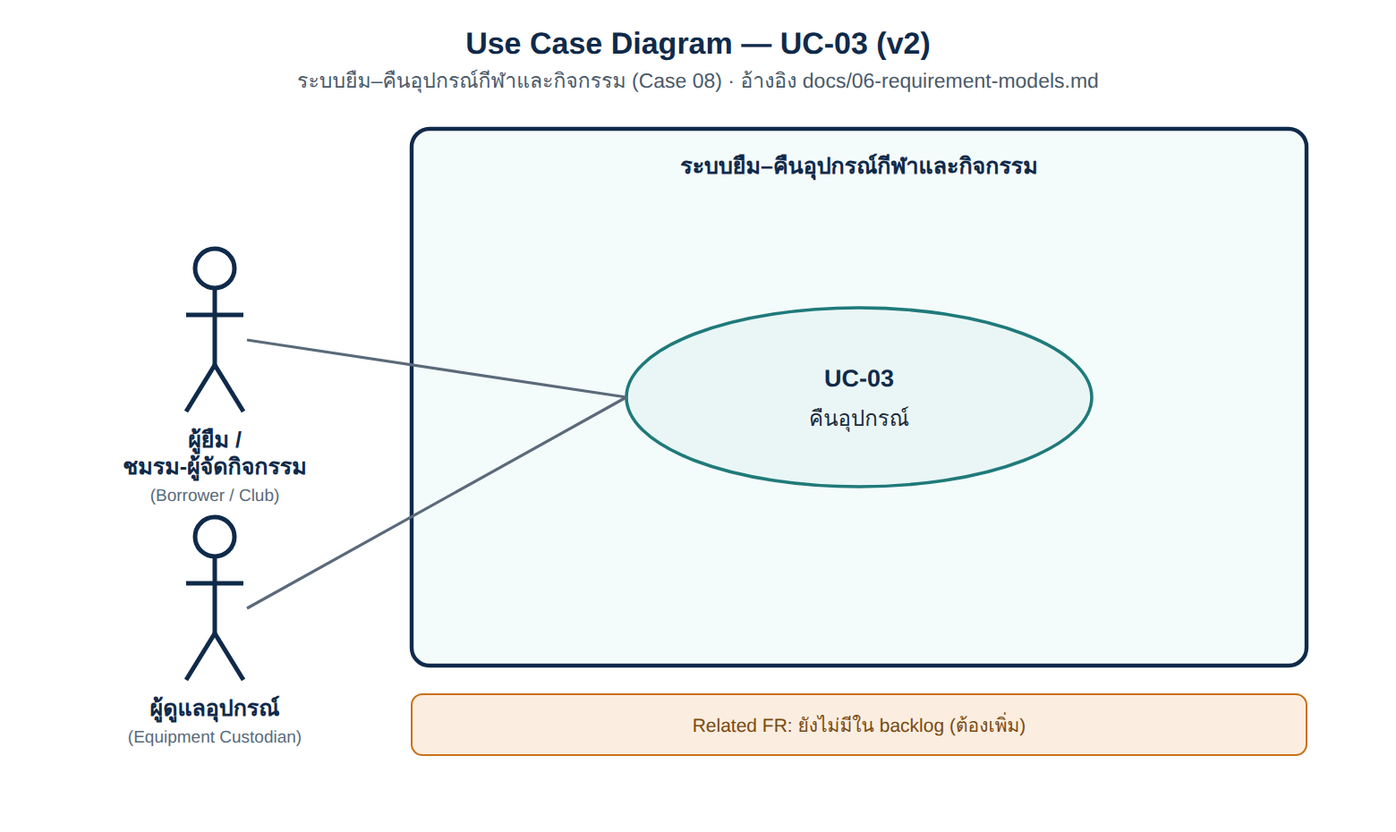
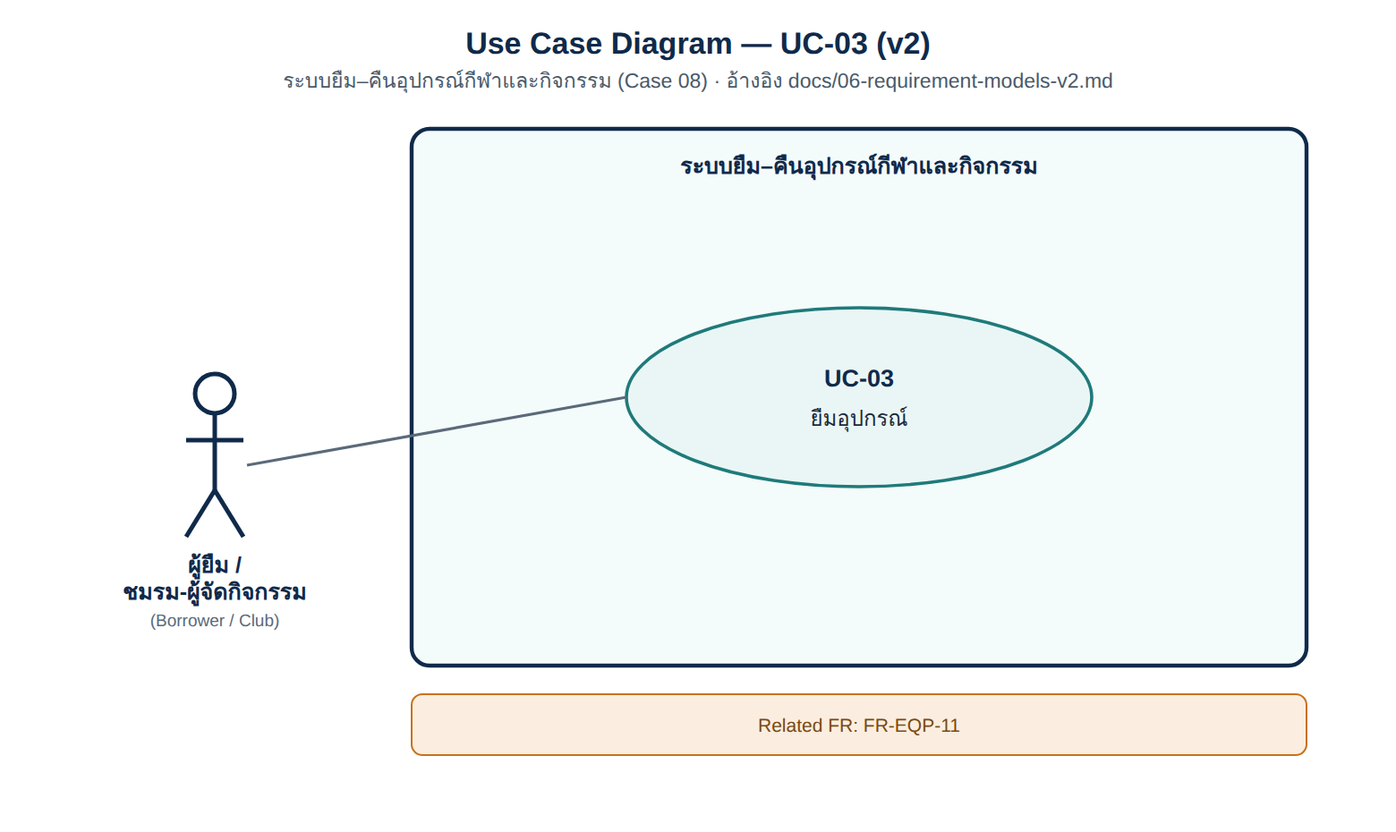
Split UC-01 into add/view equipment use cases, add backlog v0.3 with FR-EQP-09..12

diff --git a/docs/06-requirement-models-v2.md b/docs/06-requirement-models-v2.md
@@ -6,11 +6,11 @@
 
 | **ID** | **Actor** | **Goal** | **Value** | **Priority** | **Linked FR** | **Acceptance Criteria** |
 |---|---|---|---|---|---|---|
-| US-01 | ผู้ดูแลอุปกรณ์ | เพิ่มรายการอุปกรณ์ใหม่เข้าสู่ระบบ | เพื่อให้ข้อมูลอุปกรณ์ที่มีอยู่ครบถ้วนและพร้อมให้ตรวจสอบก่อนยืม | Must | *ยังไม่มีใน backlog (ต้องเพิ่ม)* | `AC-01` |
-| US-02 | ผู้ยืม / ชมรม-ผู้จัดกิจกรรม | ดูรายการอุปกรณ์ทั้งหมดที่มีในระบบ | เพื่อให้ทราบว่ามีอุปกรณ์อะไรบ้างก่อนตัดสินใจยืม | Must | *ยังไม่มีใน backlog (ต้องเพิ่ม)* | `AC-02` |
-| US-03 | ผู้ยืม / ชมรม-ผู้จัดกิจกรรม | ยืมอุปกรณ์ที่ต้องการจากระบบ | เพื่อให้สามารถนำอุปกรณ์ไปใช้ในกิจกรรมของตนเองได้ | Must | `FR-EQP-04, FR-EQP-06, FR-EQP-07` | `AC-03, AC-04` |
-| US-04 | ผู้ยืม / ชมรม-ผู้จัดกิจกรรม | คืนอุปกรณ์ที่ยืมไปเมื่อใช้งานเสร็จ | เพื่อให้อุปกรณ์กลับเข้าสู่ระบบและพร้อมให้ผู้อื่นยืมต่อได้ | Must | `FR-EQP-01, FR-EQP-02, FR-EQP-03, FR-EQP-05` | `AC-05, AC-06` |
-| US-05 | เจ้าหน้าที่/ผู้บริหาร | ดูข้อมูลสรุปการใช้งานอุปกรณ์ | เพื่อใช้ติดตามการใช้งานและวางแผนจัดการอุปกรณ์ | Could | `FR-EQP-08` | `AC-07, AC-08` |
+| US-01 | ผู้ดูแลอุปกรณ์ | เพิ่มรายการอุปกรณ์ใหม่เข้าสู่ระบบ | เพื่อให้ข้อมูลอุปกรณ์ที่มีอยู่ครบถ้วนและพร้อมให้ตรวจสอบก่อนยืม | Must | [`FR-EQP-09`](05-requirement-backlog-v0.3.md#3-requirement-backlog-v03) | `AC-01` |
+| US-02 | ผู้ยืม / ชมรม-ผู้จัดกิจกรรม | ดูรายการอุปกรณ์ทั้งหมดที่มีในระบบ | เพื่อให้ทราบว่ามีอุปกรณ์อะไรบ้างก่อนตัดสินใจยืม | Must | [`FR-EQP-10`](05-requirement-backlog-v0.3.md#3-requirement-backlog-v03) | `AC-02` |
+| US-03 | ผู้ยืม / ชมรม-ผู้จัดกิจกรรม | ยืมอุปกรณ์ที่ต้องการจากระบบ | เพื่อให้สามารถนำอุปกรณ์ไปใช้ในกิจกรรมของตนเองได้ | Must | [`FR-EQP-11`](05-requirement-backlog-v0.3.md#3-requirement-backlog-v03) | `AC-03, AC-04` |
+| US-04 | ผู้ยืม / ชมรม-ผู้จัดกิจกรรม | คืนอุปกรณ์ที่ยืมไปเมื่อใช้งานเสร็จ | เพื่อให้อุปกรณ์กลับเข้าสู่ระบบและพร้อมให้ผู้อื่นยืมต่อได้ | Must | [`FR-EQP-12`](05-requirement-backlog-v0.3.md#3-requirement-backlog-v03) | `AC-05, AC-06` |
+| US-05 | เจ้าหน้าที่/ผู้บริหาร | ดูข้อมูลสรุปการใช้งานอุปกรณ์ | เพื่อใช้ติดตามการใช้งานและวางแผนจัดการอุปกรณ์ | Could | [`FR-EQP-08`](05-requirement-backlog-v0.3.md#3-requirement-backlog-v03) | `AC-07, AC-08` |
 
 ## 2. Acceptance Criteria
 
@@ -69,26 +69,39 @@
 
 | **ID** | **Use Case** | **Primary Actor** | **Goal** | **Related FR** | **Diagram** |
 |---|---|---|---|---|---|
-| UC-01 | เพิ่ม/ดูรายการอุปกรณ์ | ผู้ดูแลอุปกรณ์ (เพิ่ม) / ผู้ยืม, ชมรม-ผู้จัดกิจกรรม (ดู) | เพิ่มอุปกรณ์เข้าระบบและให้ทุกคนดูรายการอุปกรณ์ที่มี | *ยังไม่มีใน backlog* | [`../diagrams/use-case/UC-01-v2.png`](../diagrams/use-case/UC-01-v2.png) |
-| UC-02 | ยืมอุปกรณ์ | ผู้ยืม, ชมรม/ผู้จัดกิจกรรม | ยืมอุปกรณ์ที่ต้องการไปใช้งาน | `FR-EQP-04, FR-EQP-06, FR-EQP-07` | [`../diagrams/use-case/UC-02-v2.png`](../diagrams/use-case/UC-02-v2.png) |
-| UC-03 | คืนอุปกรณ์ | ผู้ยืม, ชมรม/ผู้จัดกิจกรรม, ผู้ดูแลอุปกรณ์ | คืนอุปกรณ์ที่ยืมไปเมื่อใช้งานเสร็จ | `FR-EQP-01, FR-EQP-02, FR-EQP-03, FR-EQP-05` | [`../diagrams/use-case/UC-03-v2.png`](../diagrams/use-case/UC-03-v2.png) |
-| UC-04 | ดูข้อมูลสรุปการใช้งานอุปกรณ์ | เจ้าหน้าที่/ผู้บริหาร | ดูข้อมูลสรุปว่าอุปกรณ์แต่ละชิ้นถูกใช้งานอย่างไร | `FR-EQP-08` | [`../diagrams/use-case/UC-04-v2.png`](../diagrams/use-case/UC-04-v2.png) |
+| UC-01 | เพิ่มรายการอุปกรณ์ | ผู้ดูแลอุปกรณ์ | เพิ่มอุปกรณ์ใหม่เข้าสู่ระบบ | [`FR-EQP-09`](05-requirement-backlog-v0.3.md#3-requirement-backlog-v03) | [`../diagrams/use-case/UC-01-v2.png`](../diagrams/use-case/UC-01-v2.png) |
+| UC-02 | ดูรายการอุปกรณ์ | ผู้ยืม, ชมรม-ผู้จัดกิจกรรม, ผู้ดูแลอุปกรณ์ | ดูรายการอุปกรณ์ทั้งหมดพร้อมสถานะ | [`FR-EQP-10`](05-requirement-backlog-v0.3.md#3-requirement-backlog-v03) | [`../diagrams/use-case/UC-02-v2.png`](../diagrams/use-case/UC-02-v2.png) |
+| UC-03 | ยืมอุปกรณ์ | ผู้ยืม, ชมรม/ผู้จัดกิจกรรม | ยืมอุปกรณ์ที่ต้องการไปใช้งาน | [`FR-EQP-11`](05-requirement-backlog-v0.3.md#3-requirement-backlog-v03) | [`../diagrams/use-case/UC-03-v2.png`](../diagrams/use-case/UC-03-v2.png) |
+| UC-04 | คืนอุปกรณ์ | ผู้ยืม, ชมรม/ผู้จัดกิจกรรม, ผู้ดูแลอุปกรณ์ | คืนอุปกรณ์ที่ยืมไปเมื่อใช้งานเสร็จ | [`FR-EQP-12`](05-requirement-backlog-v0.3.md#3-requirement-backlog-v03) | [`../diagrams/use-case/UC-04-v2.png`](../diagrams/use-case/UC-04-v2.png) |
+| UC-05 | ดูข้อมูลสรุปการใช้งานอุปกรณ์ | เจ้าหน้าที่/ผู้บริหาร | ดูข้อมูลสรุปว่าอุปกรณ์แต่ละชิ้นถูกใช้งานอย่างไร | [`FR-EQP-08`](05-requirement-backlog-v0.3.md#3-requirement-backlog-v03) | [`../diagrams/use-case/UC-05-v2.png`](../diagrams/use-case/UC-05-v2.png) |
 
 ## 4. Use Case Specification
 
-### UC-01 — เพิ่ม/ดูรายการอุปกรณ์
+### UC-01 — เพิ่มรายการอุปกรณ์
 
 | **Field** | **Detail** |
 |---|---|
-| Primary Actor | ผู้ดูแลอุปกรณ์ (เพิ่มรายการ) / ผู้ยืม, ชมรม-ผู้จัดกิจกรรม (ดูรายการ) |
-| Trigger | ผู้ดูแลอุปกรณ์ต้องการเพิ่มอุปกรณ์ใหม่ หรือผู้ใช้งานต้องการดูรายการอุปกรณ์ที่มี |
-| Preconditions | ผู้ใช้งานเข้าสู่ระบบแล้ว (สำหรับเพิ่มรายการต้องมีสิทธิ์ผู้ดูแลอุปกรณ์) |
-| Main Success Scenario | 1. ผู้ดูแลอุปกรณ์เลือกเมนู "เพิ่มอุปกรณ์" 2. กรอกข้อมูลอุปกรณ์ (ชื่อ, หมวดหมู่, จำนวน) 3. กดบันทึก 4. ระบบบันทึกอุปกรณ์ใหม่ 5. ผู้ใช้งาน (ทุกบทบาท) เปิดหน้ารายการอุปกรณ์ 6. ระบบแสดงรายการอุปกรณ์ทั้งหมดพร้อมสถานะ |
+| Primary Actor | ผู้ดูแลอุปกรณ์ |
+| Trigger | ผู้ดูแลอุปกรณ์ต้องการเพิ่มอุปกรณ์ใหม่เข้าสู่ระบบ |
+| Preconditions | ผู้ดูแลอุปกรณ์เข้าสู่ระบบด้วยสิทธิ์ผู้ดูแล |
+| Main Success Scenario | 1. ผู้ดูแลอุปกรณ์เลือกเมนู "เพิ่มอุปกรณ์" 2. กรอกข้อมูลอุปกรณ์ (ชื่อ, หมวดหมู่, จำนวน) 3. กดบันทึก 4. ระบบบันทึกอุปกรณ์ใหม่เข้าสู่ฐานข้อมูล |
 | Alternate / Exception Flows | หากกรอกข้อมูลไม่ครบ ระบบแจ้งเตือนและไม่บันทึกจนกว่าจะกรอกครบ |
-| Postconditions | ระบบมีรายการอุปกรณ์ที่ครบถ้วนและผู้ใช้งานสามารถดูสถานะอุปกรณ์ได้ |
-| Related Requirements | *ยังไม่มีใน backlog (ต้องเพิ่ม)* |
+| Postconditions | ระบบมีรายการอุปกรณ์ใหม่พร้อมให้ดูและยืมได้ |
+| Related Requirements | [`FR-EQP-09`](05-requirement-backlog-v0.3.md#3-requirement-backlog-v03) |
 
-### UC-02 — ยืมอุปกรณ์
+### UC-02 — ดูรายการอุปกรณ์
+
+| **Field** | **Detail** |
+|---|---|
+| Primary Actor | ผู้ยืม, ชมรม-ผู้จัดกิจกรรม, ผู้ดูแลอุปกรณ์ |
+| Trigger | ผู้ใช้งานต้องการดูรายการอุปกรณ์ที่มีอยู่ในระบบ |
+| Preconditions | ผู้ใช้งานเข้าสู่ระบบแล้ว |
+| Main Success Scenario | 1. ผู้ใช้งานเปิดหน้ารายการอุปกรณ์ 2. ระบบดึงข้อมูลอุปกรณ์ทั้งหมด 3. ระบบแสดงรายการอุปกรณ์ทั้งหมดพร้อมสถานะปัจจุบัน (ว่าง/ถูกยืม) |
+| Alternate / Exception Flows | หากยังไม่มีอุปกรณ์ในระบบ ระบบแสดงข้อความว่ายังไม่มีรายการอุปกรณ์ |
+| Postconditions | ผู้ใช้งานเห็นรายการอุปกรณ์และสถานะล่าสุด |
+| Related Requirements | [`FR-EQP-10`](05-requirement-backlog-v0.3.md#3-requirement-backlog-v03) |
+
+### UC-03 — ยืมอุปกรณ์
 
 | **Field** | **Detail** |
 |---|---|
@@ -98,9 +111,9 @@
 | Main Success Scenario | 1. ผู้ยืมเปิดรายการอุปกรณ์ 2. เลือกอุปกรณ์ที่ต้องการยืม 3. กดยืนยันการยืม 4. ระบบตรวจสอบสถานะอุปกรณ์ 5. ระบบบันทึกรายการยืม 6. ระบบเปลี่ยนสถานะอุปกรณ์เป็น "ถูกยืม" |
 | Alternate / Exception Flows | หากอุปกรณ์ไม่ว่าง ระบบไม่อนุญาตให้ยืมและแจ้งเตือนผู้ยืม |
 | Postconditions | อุปกรณ์ถูกส่งมอบให้ผู้ยืม และสถานะอุปกรณ์เปลี่ยนเป็น "ถูกยืม" |
-| Related Requirements | *ยังไม่มีใน backlog (ต้องเพิ่ม)* |
+| Related Requirements | [`FR-EQP-11`](05-requirement-backlog-v0.3.md#3-requirement-backlog-v03) |
 
-### UC-03 — คืนอุปกรณ์
+### UC-04 — คืนอุปกรณ์
 
 | **Field** | **Detail** |
 |---|---|
@@ -111,9 +124,9 @@
 | Main Success Scenario | 1. ผู้ยืมนำอุปกรณ์มาคืน 2. ผู้ดูแลอุปกรณ์ตรวจสอบอุปกรณ์ 3. ผู้ดูแลอุปกรณ์กดยืนยันรับคืนในระบบ 4. ระบบบันทึกวันเวลาที่คืน 5. ระบบเปลี่ยนสถานะอุปกรณ์เป็น "ว่าง" |
 | Alternate / Exception Flows | หากไม่พบรายการยืมที่ตรงกัน ระบบแจ้งเตือนว่าไม่พบข้อมูลการยืม |
 | Postconditions | อุปกรณ์กลับสู่สถานะ "ว่าง" และพร้อมให้ผู้อื่นยืมต่อ |
-| Related Requirements | *ยังไม่มีใน backlog (ต้องเพิ่ม)* |
+| Related Requirements | [`FR-EQP-12`](05-requirement-backlog-v0.3.md#3-requirement-backlog-v03) |
 
-### UC-04 — ดูข้อมูลสรุปการใช้งานอุปกรณ์
+### UC-05 — ดูข้อมูลสรุปการใช้งานอุปกรณ์
 
 | **Field** | **Detail** |
 |---|---|
@@ -123,7 +136,7 @@
 | Main Success Scenario | 1. เจ้าหน้าที่หรือผู้บริหารเปิดหน้าข้อมูลสรุป 2. ระบบรวบรวมข้อมูลการยืม-คืนของอุปกรณ์แต่ละชิ้น 3. ระบบคำนวณจำนวนครั้งที่ถูกยืม 4. ระบบแสดงข้อมูลสรุปพร้อมสถานะปัจจุบันของอุปกรณ์แต่ละชิ้น |
 | Alternate / Exception Flows | หากไม่มีข้อมูลของอุปกรณ์ชิ้นใด ระบบแสดงว่ายังไม่มีข้อมูลการใช้งาน |
 | Postconditions | เจ้าหน้าที่หรือผู้บริหารได้ข้อมูลสรุปเพื่อใช้ติดตาม/วางแผน |
-| Related Requirements | FR-EQP-08 |
+| Related Requirements | [`FR-EQP-08`](05-requirement-backlog-v0.3.md#3-requirement-backlog-v03) |
 
 ## 5. Requirement Models / Diagrams
 
@@ -139,28 +152,28 @@
 
 ### 5.2 Activity Diagrams (Workflow Modeling)
 
-#### Workflow: กระบวนการเพิ่มอุปกรณ์ ยืม และคืน (Equipment Add, Borrow & Return Flow)
+#### Workflow: กระบวนการเพิ่มอุปกรณ์ ดู ยืม และคืน (Equipment Add, View, Borrow & Return Flow)
 
 ```mermaid
 stateDiagram-v2
     [*] --> AddEquipment: ผู้ดูแลอุปกรณ์เพิ่มรายการอุปกรณ์ใหม่ (UC-01)
-    AddEquipment --> AvailableList: อุปกรณ์แสดงในรายการที่ดูได้ (UC-01)
+    AddEquipment --> AvailableList: อุปกรณ์แสดงในรายการที่ดูได้ (UC-02)
 
     AvailableList --> SelectItem: ผู้ยืม/ชมรม-ผู้จัดกิจกรรมเลือกอุปกรณ์ที่ต้องการ
 
     state IsAvailable <<choice>>
     SelectItem --> IsAvailable
     IsAvailable --> AvailableList: อุปกรณ์ไม่ว่าง (เลือกใหม่)
-    IsAvailable --> Borrowed: อุปกรณ์ว่าง ยืนยันการยืม (UC-02)
+    IsAvailable --> Borrowed: อุปกรณ์ว่าง ยืนยันการยืม (UC-03)
 
     Borrowed --> InUse: อุปกรณ์อยู่ระหว่างการใช้งาน
 
     InUse --> ReturnRequested: ผู้ยืมนำอุปกรณ์มาคืน
-    ReturnRequested --> ConfirmedReturn: ผู้ดูแลอุปกรณ์ตรวจสอบและยืนยันรับคืน (UC-03)
+    ReturnRequested --> ConfirmedReturn: ผู้ดูแลอุปกรณ์ตรวจสอบและยืนยันรับคืน (UC-04)
     ConfirmedReturn --> AvailableList: สถานะอุปกรณ์กลับเป็น "ว่าง"
 
     ConfirmedReturn --> UpdateUsageData: บันทึกข้อมูลการยืม-คืนของอุปกรณ์
-    UpdateUsageData --> [*]: พร้อมใช้แสดงในข้อมูลสรุปการใช้งาน (UC-04)
+    UpdateUsageData --> [*]: พร้อมใช้แสดงในข้อมูลสรุปการใช้งาน (UC-05)
 ```
 
 *ลิงก์ไฟล์ไดอะแกรมและคำอธิบาย:* [Activity Diagrams Directory](../diagrams/activity/README.md)
@@ -179,4 +192,5 @@ stateDiagram-v2
 
 บันทึกสิ่งที่ไม่ได้เลือกหรือเลื่อนออกจาก scope พร้อมเหตุผล
 
-- ตัดขอบเขตเดิม (การส่งคำขอยืมอุปกรณ์ประเภทพิเศษที่ต้องขออนุมัติ, การเรียกคืนก่อนกำหนด, การจองอุปกรณ์ล่วงหน้าแบบป้องกันชนเวลา, การดูหลักฐานสภาพอุปกรณ์แยกต่างหาก) ออกจากรุ่นนี้ เพื่อโฟกัสเฉพาะ flow หลัก: เพิ่ม/ดูอุปกรณ์ → ยืม → คืน → ดูข้อมูลสรุป
+- ตัดขอบเขตเดิม (การส่งคำขอยืมอุปกรณ์ประเภทพิเศษที่ต้องขออนุมัติ, การเรียกคืนก่อนกำหนด, การจองอุปกรณ์ล่วงหน้าแบบป้องกันชนเวลา, การดูหลักฐานสภาพอุปกรณ์แยกต่างหาก) ออกจากรุ่นนี้ เพื่อโฟกัสเฉพาะ flow หลัก: เพิ่ม → ดู → ยืม → คืน → ดูข้อมูลสรุป
+- แยก use case "เพิ่มอุปกรณ์" (UC-01) และ "ดูรายการอุปกรณ์" (UC-02) ออกจากกัน เพราะเป็นบทบาทและเวลาที่เกิดต่างกัน (ผู้ดูแลอุปกรณ์เป็นคนเพิ่ม แต่ทุกบทบาทดูได้) ทำให้ traceability ไปยัง FR/actor ชัดเจนกว่าการรวมเป็น use case เดียว

diff --git a/docs/05-requirement-backlog-v0.3.md b/docs/05-requirement-backlog-v0.3.md
@@ -1,0 +1,78 @@
+# 05 — Requirement Backlog v0.3: ระบบยืม–คืนอุปกรณ์กีฬาและกิจกรรม (Case 08)
+
+> **Case:** ระบบยืม–คืนอุปกรณ์กีฬาและกิจกรรม
+> **Source:** v0.2 (`05-requirement-backlog-v0.2.md`) + ขอบเขต Use Case แบบง่ายใน `06-requirement-models-v2.md`
+> **Status:** v0.3 — เพิ่ม FR รองรับ UC-01..04 (เพิ่ม/ดูอุปกรณ์, ยืม, คืน, ดูข้อมูลสรุป)
+> **Goal:** เพิ่ม FR ที่ขาดสำหรับขอบเขตใหม่แบบง่าย โดยไม่ลบ FR เดิม (เก็บไว้เพื่อประวัติ)
+
+## 1. Project Metadata
+
+| Field | Value |
+|---|---|
+| Course / Week | ENGSE206 / Week06 |
+| Team | Team 08 |
+| Case | Case 08 — ระบบยืม–คืนอุปกรณ์กีฬาและกิจกรรม |
+| Source | `05-requirement-backlog-v0.2.md`, `06-requirement-models-v2.md` |
+| Backlog version | `v0.3` |
+
+## 2. Prioritization Method
+
+ใช้ MoSCoW โดยพิจารณา Value, Risk, Urgency และ Dependency ตามเดิม
+
+## 3. Requirement Backlog v0.3
+
+| Req ID | Source RC | Evidence / Need Trace | Requirement Statement | Type | Priority | Rationale | Status | Open Question | Week06 Use |
+|---|---|---|---|---|---|---|---|---|---|
+| FR-EQP-01 | RC-01 | E-01 → Need N-01 | ระบบต้องให้ผู้ดูแลอุปกรณ์บันทึกประวัติการยืม–คืนของอุปกรณ์แต่ละชิ้นแบบดิจิทัล และค้นหาประวัติย้อนหลังของอุปกรณ์แต่ละชิ้นได้ | Functional | Must | เป็น core workflow และแทนที่สมุดบันทึกกระดาษโดยตรง | Needs Follow-up | ยืนยันระยะเวลาย้อนหลังที่ต้องค้นได้ และค้นตามผู้ยืมด้วยหรือไม่ | User Story + Use Case |
+| FR-EQP-02 | RC-02 | E-02, E-05 → Need N-02 | ระบบต้องให้ผู้ดูแลอุปกรณ์บันทึกสภาพอุปกรณ์พร้อมภาพถ่าย ณ ตอนส่งมอบและตอนรับคืน | Functional | Must | หลักฐานจาก stakeholder 2 ฝ่ายสนับสนุนการแก้ข้อพิพาทความชำรุด | Needs Follow-up | ใครเป็นผู้ถ่ายภาพ และหลักฐานเก็บที่ใด/นานเท่าใด | Use Case + Acceptance Criteria |
+| FR-EQP-03 | RC-02 follow-up | E-02, E-05 → Need N-02 | ระบบต้องให้ผู้ยืมที่เกี่ยวข้องและผู้ดูแลอุปกรณ์ดูภาพถ่ายและบันทึกสภาพของรายการยืมที่เกี่ยวข้องได้ | Functional | Must | แยก access/use concern ออกจาก FR-EQP-02 เพื่อให้ atomic | Needs Follow-up | ยืนยันบทบาทที่มีสิทธิ์ดูหลักฐานเพิ่มเติม | Use Case + Acceptance Criteria |
+| FR-EQP-04 | RC-03 | E-03 → Need N-03; Negotiation N-02 (Option B) | ระบบต้องส่งคำขออนุมัติให้ผู้มีอำนาจเมื่อคำขอเกี่ยวข้องกับอุปกรณ์ประเภทพิเศษ/ราคาสูง และต้องบันทึกผลการอนุมัติ | Functional / Authorization | Should | มีคุณค่าด้านการควบคุมความเสี่ยง แต่เกณฑ์อุปกรณ์พิเศษยังไม่ยืนยัน | Needs Follow-up | เกณฑ์ราคา/รายการ และผู้มีอำนาจคือใคร | Use Case Extension |
+| FR-EQP-05 | RC-04 | E-04 → Need N-04; Negotiation N-01 (Provisional) | ระบบต้องรองรับการเรียกคืนอุปกรณ์ก่อนกำหนดโดยผู้ดูแลอุปกรณ์ และบันทึกเหตุผลการเรียกคืน | Functional / Business Rule | Should | ทิศทาง negotiation ชัดระดับหนึ่ง แต่เกณฑ์เร่งด่วนยังไม่ครบ | Needs Follow-up | เกณฑ์เร่งด่วนและระยะเวลาแจ้งล่วงหน้า | Alternate Flow + State Rule |
+| FR-EQP-06 | RC-05 | E-06, E-07 → Need N-05 | ระบบต้องแสดงสถานะว่าง/ถูกจองของอุปกรณ์ตามช่วงเวลาที่ผู้ใช้เลือกภายใน 3 วินาทีหลังเลือกช่วงเวลา | Functional | Must | แก้ pain point การมองสถานะอุปกรณ์และทำให้ตรวจรับได้ | Ready for Week06 | ยืนยันว่าช่วงเวลาจองล่วงหน้า 5–7 วันใช้กับทุกประเภทชมรมหรือไม่ | User Story + Use Case |
+| FR-EQP-07 | RC-05 | E-06, E-07 → Need N-05 | ระบบต้องป้องกันการสร้างรายการจองอุปกรณ์ชิ้นเดียวกันที่ช่วงเวลาทับซ้อนกับรายการจองที่ยืนยันแล้ว | Functional / Integrity | Must | แยกจากการแสดงสถานะให้เป็น atomic requirement และตรงกับ pain point จองซ้ำ | Ready for Week06 | ยืนยันกติกากรณีคำขอรออนุมัติทับซ้อนกัน | Use Case + Acceptance Criteria |
+| FR-EQP-08 | RC-06 (เฉพาะส่วนสรุปการใช้งาน/สถานะ) | E-08 → Need N-06; Negotiation N-03 (Unresolved) | ระบบต้องมีรายงาน/แดชบอร์ดให้เจ้าหน้าที่ดูจำนวนครั้งที่อุปกรณ์แต่ละชิ้นถูกยืม ประวัติความชำรุด สถานะ/ผู้ถือครองปัจจุบัน และกำหนดคืน | Functional / Reporting | Could | เป็น need ใหม่จากเจ้าหน้าที่ แต่ยังต้องตรวจผลกระทบต่อ Scope Statement | Needs Follow-up | ความถี่รายงานและผลกระทบต่อ scope เดิม | Follow-up only |
+| NFR-EQP-01 | Scope Statement (Out of Scope: บัญชี/ค่าปรับ, ข้อมูลส่วนบุคคล) | Week 2 Scope Statement + Ethics | ระบบต้องเก็บข้อมูลผู้ยืมเฉพาะข้อมูลที่จำเป็นต่อการยืม–คืน และต้องไม่เชื่อมโยง/ประมวลผลร่วมกับระบบบัญชีหรือค่าปรับ | NFR / Policy-derived Constraint | Must | เป็น policy-derived constraint จาก Scope/ethics ไม่ได้เกิดจาก E-ID โดยตรง | Ready for Week06 | — | Quality Scenario + Constraint |
+| NFR-EQP-02 | RC-02 follow-up | E-02, E-05 + Ethics | ระบบต้องจำกัดสิทธิ์การเข้าถึงภาพถ่ายและบันทึกสภาพอุปกรณ์เฉพาะผู้ดูแลอุปกรณ์และผู้ยืมที่เกี่ยวข้องกับรายการนั้น | NFR / Access Control | Should | รองรับความน่าเชื่อถือของหลักฐานและแยกจาก functional record | Needs Follow-up | ยืนยันบทบาทและขอบเขตสิทธิ์เพิ่มเติม | Quality Scenario |
+| NFR-EQP-03 | Problem Brief §9 | Week 1 — Non-functional Expectations | ผู้ใช้ใหม่ต้องสามารถทำรายการยืมอุปกรณ์สำเร็จภายใน 5 คลิก โดยไม่ต้องได้รับการฝึกอบรมจากผู้ดูแล และหน้าจอหลักต้องรองรับการแสดงผลบนโทรศัพท์มือถือที่ความกว้าง 375 px | NFR | Should | แทนคำว่า "ใช้งานง่าย" ด้วยเกณฑ์ตรวจรับได้ และคง mobile requirement จาก Week 1 | Needs Follow-up | ยืนยันว่า 5 คลิกและ 375 px เป็นเกณฑ์ที่ทีม/ผู้สอนยอมรับหรือควรปรับ | Quality Scenario |
+| ISSUE-EQP-01 | RC-06 (เฉพาะส่วนคำแนะนำจัดซื้อ/งบประมาณ) | E-08 → Need N-06 | คำแนะนำเรื่องการซ่อมบำรุง/จัดซื้อ และผู้อนุมัติงบประมาณ | Issue | Won't yet | อยู่นอก scope เดิมและยังไม่มี scope owner ยืนยัน | Hold | ผู้สอน/scope owner ยืนยันผลกระทบต่อ scope หรือไม่ | Follow-up only |
+| FR-EQP-09 | RC-NEW-01 (v2 scope) | มาจาก `06-requirement-models-v2.md` UC-01 | ระบบต้องให้ผู้ดูแลอุปกรณ์เพิ่มรายการอุปกรณ์ใหม่เข้าสู่ระบบ โดยระบุชื่อ หมวดหมู่ และจำนวน | Functional | Must | จำเป็นเพื่อให้ระบบมีข้อมูลอุปกรณ์ก่อนจะยืม–คืนได้ | Ready for Week06 | ยืนยัน validation ฟิลด์บังคับ | User Story + Use Case |
+| FR-EQP-10 | RC-NEW-01 (v2 scope) | มาจาก `06-requirement-models-v2.md` UC-01 | ระบบต้องแสดงรายการอุปกรณ์ทั้งหมดพร้อมสถานะปัจจุบัน (ว่าง/ถูกยืม) ให้ผู้ยืมและชมรม/ผู้จัดกิจกรรมดูได้ | Functional | Must | จำเป็นให้ผู้ใช้งานเห็นอุปกรณ์ก่อนตัดสินใจยืม | Ready for Week06 | — | User Story + Use Case |
+| FR-EQP-11 | RC-NEW-02 (v2 scope) | มาจาก `06-requirement-models-v2.md` UC-02 | ระบบต้องให้ผู้ยืมหรือชมรม/ผู้จัดกิจกรรมยืมอุปกรณ์ที่มีสถานะว่าง และเปลี่ยนสถานะอุปกรณ์เป็น "ถูกยืม" ทันทีเมื่อยืนยัน | Functional | Must | เป็น core workflow ของขอบเขตใหม่ | Ready for Week06 | ยืนยันจำนวนชิ้น/ระยะเวลายืมสูงสุดต่อครั้ง | User Story + Use Case + Acceptance Criteria |
+| FR-EQP-12 | RC-NEW-03 (v2 scope) | มาจาก `06-requirement-models-v2.md` UC-03 | ระบบต้องให้ผู้ดูแลอุปกรณ์ยืนยันรับคืนอุปกรณ์ และเปลี่ยนสถานะอุปกรณ์กลับเป็น "ว่าง" พร้อมบันทึกวันเวลาที่คืน | Functional | Must | เป็น core workflow ของขอบเขตใหม่ | Ready for Week06 | ยืนยันว่าต้องตรวจสภาพอุปกรณ์ตอนคืนหรือไม่ (นอก scope v2 ปัจจุบัน) | User Story + Use Case + Acceptance Criteria |
+
+## 4. Priority Summary
+
+| Priority | Count | Requirement IDs |
+|---|---:|---|
+| Must | 10 | FR-EQP-01, FR-EQP-02, FR-EQP-03, FR-EQP-06, FR-EQP-07, NFR-EQP-01, FR-EQP-09, FR-EQP-10, FR-EQP-11, FR-EQP-12 |
+| Should | 4 | FR-EQP-04, FR-EQP-05, NFR-EQP-02, NFR-EQP-03 |
+| Could | 1 | FR-EQP-08 |
+| Won't yet | 1 | ISSUE-EQP-01 |
+
+## 5. Ready / Follow-up / Hold
+
+| Status | Requirement IDs | สิ่งที่ต้องทำต่อ |
+|---|---|---|
+| Ready for Week06 | FR-EQP-06, FR-EQP-07, NFR-EQP-01, FR-EQP-09, FR-EQP-10, FR-EQP-11, FR-EQP-12 | ทำ User Story / Use Case / Quality Scenario ได้ |
+| Needs Follow-up | FR-EQP-01, FR-EQP-02, FR-EQP-03, FR-EQP-04, FR-EQP-05, FR-EQP-08, NFR-EQP-02, NFR-EQP-03 | ยืนยัน open questions ก่อนล็อก acceptance criteria/model แบบเต็ม |
+| Hold | ISSUE-EQP-01 | รอ scope owner ยืนยัน |
+
+## 6. Review Checklist
+
+- [x] ทุก requirement มี Source RC หรือ Evidence/Policy source
+- [x] ทุก requirement มี Evidence / Need Trace หรือระบุว่าเป็น policy-derived constraint
+- [x] Requirement ที่รวมหลายเรื่องถูกแยกให้เป็น Atomic
+- [x] Requirement ที่ใช้คำกำกวมถูกปรับให้มีตัวเลข/เงื่อนไขตรวจรับ
+- [x] Priority มี rationale จาก value/risk/urgency/dependency
+- [x] Unknown หรือ scope issue ไม่ถูกยกระดับเป็น requirement โดยไม่มีหลักฐาน
+- [x] มี Week06 Use สำหรับรายการที่พร้อมทำ model
+
+## 7. Week06 Handoff
+
+| Week06 artefact | Input ที่เหมาะสม |
+|---|---|
+| User Story | FR-EQP-01, FR-EQP-06, FR-EQP-07, FR-EQP-09, FR-EQP-10, FR-EQP-11, FR-EQP-12 |
+| Use Case | FR-EQP-09/FR-EQP-10 เป็น main flow ของ UC-01; FR-EQP-11 เป็น main flow ของ UC-02; FR-EQP-12 เป็น main flow ของ UC-03; FR-EQP-08 เป็น main flow ของ UC-04 |
+| Acceptance Criteria | FR-EQP-02, FR-EQP-03 หลังยืนยันรายละเอียดหลักฐาน/สิทธิ์ |
+| Quality Scenario | NFR-EQP-01, NFR-EQP-03 |
+| Extension / Alternate Flow | FR-EQP-04, FR-EQP-05 หลังยืนยันเกณฑ์ (ไม่ได้ใช้ใน scope v2 ปัจจุบัน) |

diff --git a/diagrams/use-case/README.md b/diagrams/use-case/README.md
@@ -13,18 +13,19 @@
 
 ![Use Case Diagram — ระบบยืม–คืนอุปกรณ์กีฬาและกิจกรรม](use-case-overview-v2.png)
 
-Source: [`use-case-overview-v2.svg`](use-case-overview-v2.svg) · เชื่อมโยงกับ [docs/06-requirement-models.md](../../docs/06-requirement-models.md)
+Source: [`use-case-overview-v2.svg`](use-case-overview-v2.svg) · เชื่อมโยงกับ [docs/06-requirement-models-v2.md](../../docs/06-requirement-models-v2.md)
 
 ## Diagram แยกรายตัว
 
 | UC | Diagram |
 |---|---|
-| UC-01 เพิ่ม/ดูรายการอุปกรณ์ | [UC-01-v2.svg](UC-01-v2.svg) · [UC-01-v2.png](UC-01-v2.png) |
-| UC-02 ยืมอุปกรณ์ | [UC-02-v2.svg](UC-02-v2.svg) · [UC-02-v2.png](UC-02-v2.png) |
-| UC-03 คืนอุปกรณ์ | [UC-03-v2.svg](UC-03-v2.svg) · [UC-03-v2.png](UC-03-v2.png) |
-| UC-04 ดูข้อมูลสรุปการใช้งานอุปกรณ์ | [UC-04-v2.svg](UC-04-v2.svg) · [UC-04-v2.png](UC-04-v2.png) |
+| UC-01 เพิ่มรายการอุปกรณ์ | [UC-01-v2.svg](UC-01-v2.svg) · [UC-01-v2.png](UC-01-v2.png) |
+| UC-02 ดูรายการอุปกรณ์ | [UC-02-v2.svg](UC-02-v2.svg) · [UC-02-v2.png](UC-02-v2.png) |
+| UC-03 ยืมอุปกรณ์ | [UC-03-v2.svg](UC-03-v2.svg) · [UC-03-v2.png](UC-03-v2.png) |
+| UC-04 คืนอุปกรณ์ | [UC-04-v2.svg](UC-04-v2.svg) · [UC-04-v2.png](UC-04-v2.png) |
+| UC-05 ดูข้อมูลสรุปการใช้งานอุปกรณ์ | [UC-05-v2.svg](UC-05-v2.svg) · [UC-05-v2.png](UC-05-v2.png) |
 
 ## หมายเหตุ
 
-- v2 คือ diagram เวอร์ชันล่าสุดที่ตรงกับขอบเขต use case แบบง่าย (เพิ่ม/ดูอุปกรณ์ → ยืม → คืน → ดูข้อมูลสรุป)
+- v2 คือ diagram เวอร์ชันล่าสุดที่ตรงกับขอบเขต use case แบบง่าย (เพิ่มอุปกรณ์ → ดูรายการ → ยืม → คืน → ดูข้อมูลสรุป) โดยแยก UC เพิ่ม/ดูออกจากกันเป็นคนละ use case
 - ไฟล์เวอร์ชันเดิม (`use-case-overview.svg/png`, `UC-01.svg`…`UC-08.svg/png`) ยังเก็บไว้ในโฟลเดอร์นี้เป็นข้อมูลอ้างอิง ไม่ได้ลบ
